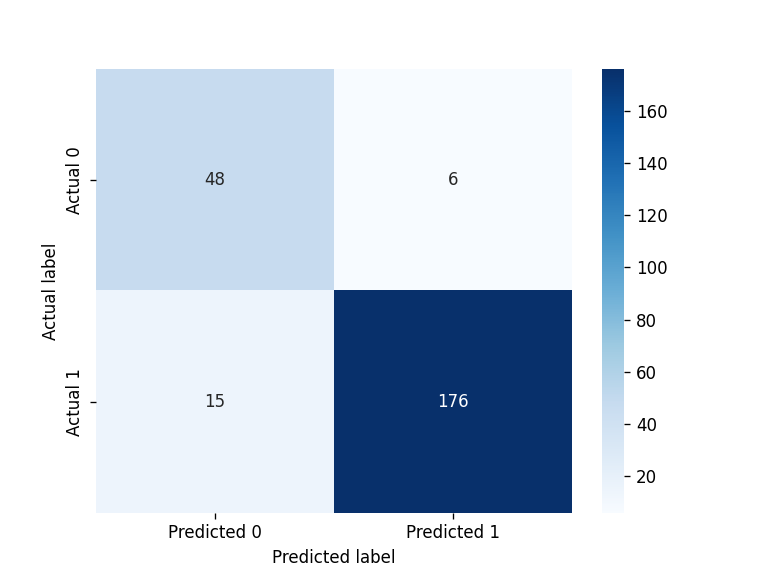
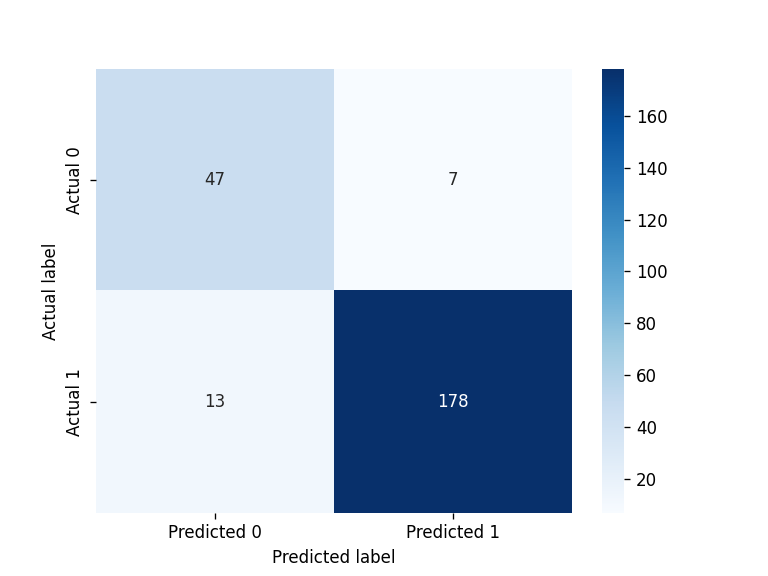
Docs: adding results from run

diff --git a/report.md b/report.md
@@ -1,6 +1,8 @@
 ## Model Metrics
 
-Accuracy = 0.9142857142857143, Precision of model = 0.967032967032967, Recall ofr model = 0.9214659685863874.
+Accuracy = 0.9183673469387755,
+ Precision of model = 0.9621621621621622, 
+ Recall ofr model = 0.9319371727748691
  ## Model performance and ROC plot
-![](https://asset.cml.dev/b198bc0691c7d04dff7ca6384977a69422d38a4e?cml=png)
-![](https://asset.cml.dev/f9ca0b0e3073b608fcf0da8bdd87e54eeb3ddd57?cml=png)
+![](https://asset.cml.dev/4152211d22714329e17deb3a651b9bfee437e80c?cml=png)
+![](https://asset.cml.dev/7ea5444965940fd5a82ad8a8648aee3025192692?cml=png)
